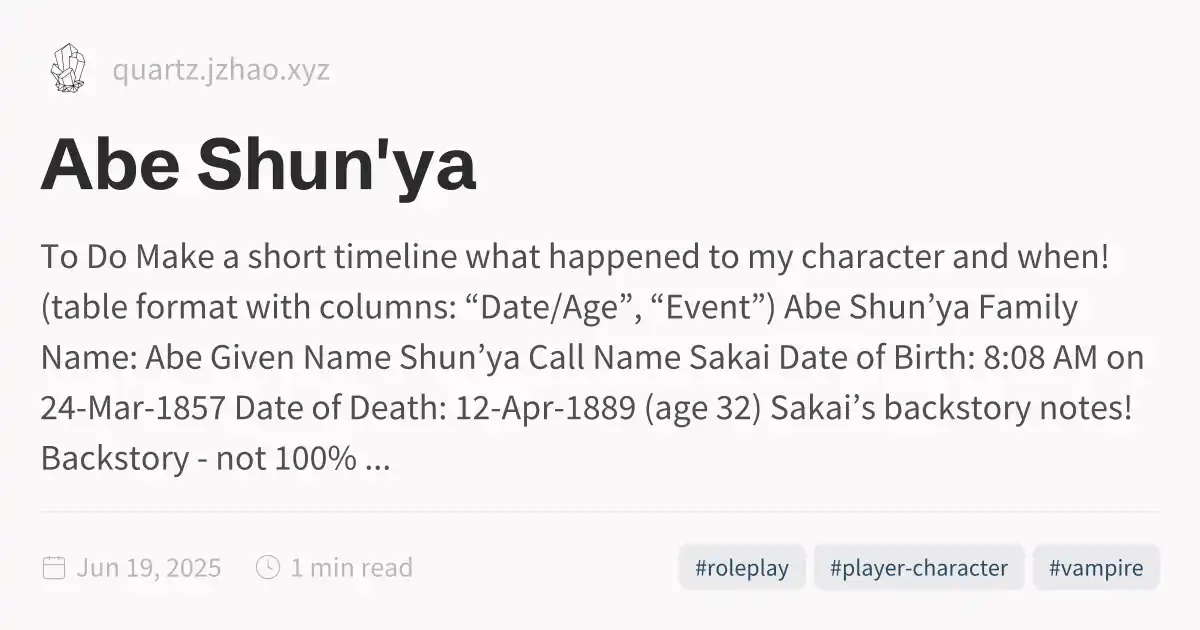
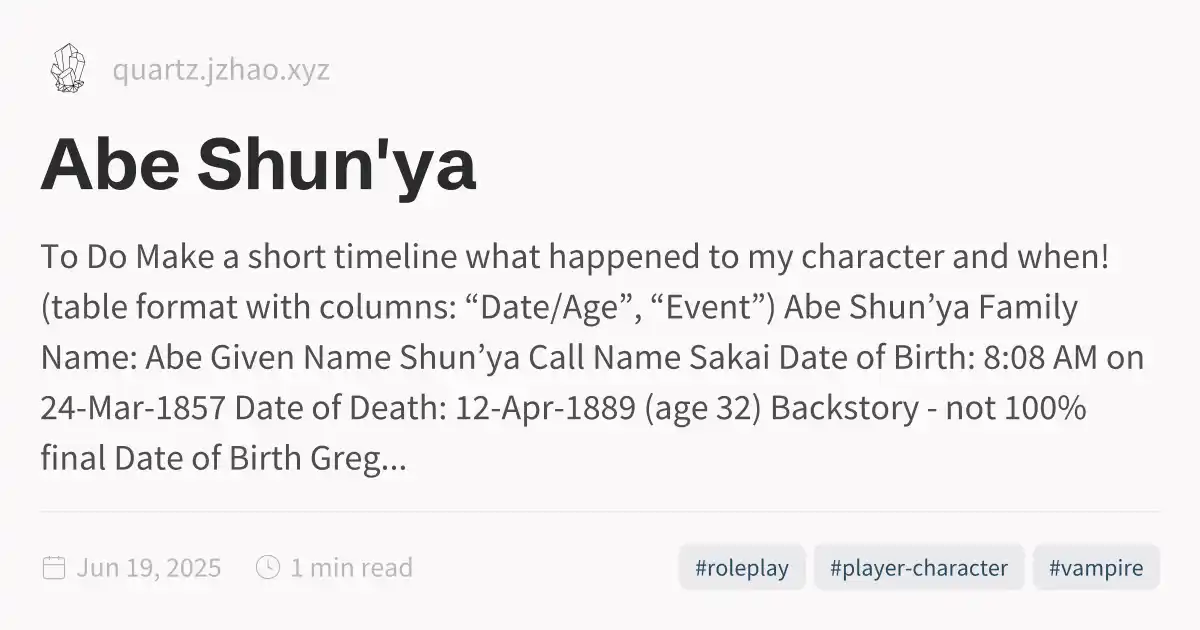
Quartz sync: Jun 20, 2025, 4:30 PM

Changed region(s): [[0.0308, 0.6937, 0.3392, 0.754], [0.6475, 0.6333, 0.9558, 0.6937]]

diff --git a/public/notes/roleplay/characters/Abe-Shun'ya/Sakai's-backstory-notes!Backstory---not-100-percent-final.html b/public/notes/roleplay/characters/Abe-Shun'ya/Sakai's-backstory-notes!Backstory---not-100-percent-final.html
@@ -1,0 +1,131 @@
+<!DOCTYPE html>
+<html lang="en"><head><title>Sakai's backstory notes!Backstory - not 100% final</title><meta charset="utf-8"/><link rel="preconnect" href="https://fonts.googleapis.com"/><link rel="preconnect" href="https://fonts.gstatic.com"/><link rel="stylesheet" href="https://fonts.googleapis.com/css2?family=Schibsted Grotesk:wght@400;700&amp;family=Source Sans Pro:ital,wght@0,400;0,600;1,400;1,600&amp;family=IBM Plex Mono:wght@400;600&amp;display=swap"/><link rel="preconnect" href="https://cdnjs.cloudflare.com" crossorigin="anonymous"/><meta name="viewport" content="width=device-width, initial-scale=1.0"/><meta name="og:site_name" content="Quartz 4"/><meta property="og:title" content="Sakai's backstory notes!Backstory - not 100% final"/><meta property="og:type" content="website"/><meta name="twitter:card" content="summary_large_image"/><meta name="twitter:title" content="Sakai's backstory notes!Backstory - not 100% final"/><meta name="twitter:description" content/><meta property="og:description" content/><meta property="og:image:alt" content/><meta property="twitter:domain" content="quartz.jzhao.xyz"/><meta property="og:url" content="https://quartz.jzhao.xyz/notes/roleplay/characters/Abe-Shun'ya/Sakai's-backstory-notes!Backstory---not-100-percent-final"/><meta property="twitter:url" content="https://quartz.jzhao.xyz/notes/roleplay/characters/Abe-Shun'ya/Sakai's-backstory-notes!Backstory---not-100-percent-final"/><link rel="icon" href="../../../../static/icon.png"/><meta name="description" content/><meta name="generator" content="Quartz"/><link href="../../../../index.css" rel="stylesheet" type="text/css" spa-preserve/><style>.expand-button {
+  position: absolute;
+  display: flex;
+  float: right;
+  padding: 0.4rem;
+  margin: 0.3rem;
+  right: 0;
+  color: var(--gray);
+  border-color: var(--dark);
+  background-color: var(--light);
+  border: 1px solid;
+  border-radius: 5px;
+  opacity: 0;
+  transition: 0.2s;
+}
+.expand-button > svg {
+  fill: var(--light);
+  filter: contrast(0.3);
+}
+.expand-button:hover {
+  cursor: pointer;
+  border-color: var(--secondary);
+}
+.expand-button:focus {
+  outline: 0;
+}
+
+pre:hover > .expand-button {
+  opacity: 1;
+  transition: 0.2s;
+}
+
+#mermaid-container {
+  position: fixed;
+  contain: layout;
+  z-index: 999;
+  left: 0;
+  top: 0;
+  width: 100vw;
+  height: 100vh;
+  overflow: hidden;
+  display: none;
+  backdrop-filter: blur(4px);
+  background: rgba(0, 0, 0, 0.5);
+}
+#mermaid-container.active {
+  display: inline-block;
+}
+#mermaid-container > #mermaid-space {
+  border: 1px solid var(--lightgray);
+  background-color: var(--light);
+  border-radius: 5px;
+  position: fixed;
+  top: 50%;
+  left: 50%;
+  transform: translate(-50%, -50%);
+  height: 80vh;
+  width: 80vw;
+  overflow: hidden;
+}
+#mermaid-container > #mermaid-space > .mermaid-content {
+  padding: 2rem;
+  position: relative;
+  transform-origin: 0 0;
+  transition: transform 0.1s ease;
+  overflow: visible;
+  min-height: 200px;
+  min-width: 200px;
+}
+#mermaid-container > #mermaid-space > .mermaid-content pre {
+  margin: 0;
+  border: none;
+}
+#mermaid-container > #mermaid-space > .mermaid-content svg {
+  max-width: none;
+  height: auto;
+}
+#mermaid-container > #mermaid-space > .mermaid-controls {
+  position: absolute;
+  bottom: 20px;
+  right: 20px;
+  display: flex;
+  gap: 8px;
+  padding: 8px;
+  background: var(--light);
+  border: 1px solid var(--lightgray);
+  border-radius: 6px;
+  box-shadow: 0 2px 4px rgba(0, 0, 0, 0.1);
+  z-index: 2;
+}
+#mermaid-container > #mermaid-space > .mermaid-controls .mermaid-control-button {
+  display: flex;
+  align-items: center;
+  justify-content: center;
+  width: 32px;
+  height: 32px;
+  padding: 0;
+  border: 1px solid var(--lightgray);
+  background: var(--light);
+  color: var(--dark);
+  border-radius: 4px;
+  cursor: pointer;
+  font-size: 16px;
+  font-family: var(--bodyFont);
+  transition: all 0.2s ease;
+}
+#mermaid-container > #mermaid-space > .mermaid-controls .mermaid-control-button:hover {
+  background: var(--lightgray);
+}
+#mermaid-container > #mermaid-space > .mermaid-controls .mermaid-control-button:active {
+  transform: translateY(1px);
+}
+#mermaid-container > #mermaid-space > .mermaid-controls .mermaid-control-button:nth-child(2) {
+  width: auto;
+  padding: 0 12px;
+  font-size: 14px;
+}
[1 lines of base64/hex data omitted]
+                s-3.542,0.634-4.898,1.688l-7.669-7.669C16.785,10.424,17,9.74,17,9c0-2.206-1.794-4-4-4S9,6.794,9,9s1.794,4,4,4
+                c0.74,0,1.424-0.215,2.019-0.567l7.669,7.669C21.634,21.458,21,23.154,21,25s0.634,3.542,1.688,4.897L10.024,42.562
+                C8.958,41.595,7.549,41,6,41c-3.309,0-6,2.691-6,6s2.691,6,6,6s6-2.691,6-6c0-1.035-0.263-2.009-0.726-2.86l12.829-12.829
+                c1.106,0.86,2.44,1.436,3.898,1.619v10.16c-2.833,0.478-5,2.942-5,5.91c0,3.309,2.691,6,6,6s6-2.691,6-6c0-2.967-2.167-5.431-5-5.91
+                v-10.16c1.458-0.183,2.792-0.759,3.898-1.619l7.669,7.669C41.215,39.576,41,40.26,41,41c0,2.206,1.794,4,4,4s4-1.794,4-4
+                s-1.794-4-4-4c-0.74,0-1.424,0.215-2.019,0.567l-7.669-7.669C36.366,28.542,37,26.846,37,25s-0.634-3.542-1.688-4.897l9.665-9.665
+                C46.042,11.405,47.451,12,49,12c3.309,0,6-2.691,6-6S52.309,0,49,0z M11,9c0-1.103,0.897-2,2-2s2,0.897,2,2s-0.897,2-2,2
+                S11,10.103,11,9z M6,51c-2.206,0-4-1.794-4-4s1.794-4,4-4s4,1.794,4,4S8.206,51,6,51z M33,49c0,2.206-1.794,4-4,4s-4-1.794-4-4
+                s1.794-4,4-4S33,46.794,33,49z M29,31c-3.309,0-6-2.691-6-6s2.691-6,6-6s6,2.691,6,6S32.309,31,29,31z M47,41c0,1.103-0.897,2-2,2
+                s-2-0.897-2-2s0.897-2,2-2S47,39.897,47,41z M49,10c-2.206,0-4-1.794-4-4s1.794-4,4-4s4,1.794,4,4S51.206,10,49,10z"></path></svg></button></div><div class="global-graph-outer"><div class="global-graph-container" data-cfg="{&quot;drag&quot;:true,&quot;zoom&quot;:true,&quot;depth&quot;:-1,&quot;scale&quot;:0.9,&quot;repelForce&quot;:0.5,&quot;centerForce&quot;:0.2,&quot;linkDistance&quot;:30,&quot;fontSize&quot;:0.6,&quot;opacityScale&quot;:1,&quot;showTags&quot;:true,&quot;removeTags&quot;:[],&quot;focusOnHover&quot;:true,&quot;enableRadial&quot;:true}"></div></div></div></div><footer class><p>Created with <a href="https://quartz.jzhao.xyz/">Quartz v4.5.1</a> © 2025</p><ul><li><a href="https://github.com/jackyzha0/quartz">GitHub</a></li><li><a href="https://discord.gg/cRFFHYye7t">Discord Community</a></li></ul></footer></div></div></body><script type="application/javascript">function n(){let t=this.parentElement;t.classList.toggle("is-collapsed");let e=t.getElementsByClassName("callout-content")[0];if(!e)return;let l=t.classList.contains("is-collapsed");e.style.gridTemplateRows=l?"0fr":"1fr"}function c(){let t=document.getElementsByClassName("callout is-collapsible");for(let e of t){let l=e.getElementsByClassName("callout-title")[0],s=e.getElementsByClassName("callout-content")[0];if(!l||!s)continue;l.addEventListener("click",n),window.addCleanup(()=>l.removeEventListener("click",n));let o=e.classList.contains("is-collapsed");s.style.gridTemplateRows=o?"0fr":"1fr"}}document.addEventListener("nav",c);
+</script><script type="module">function f(i,e){if(!i)return;function r(o){o.target===this&&(o.preventDefault(),o.stopPropagation(),e())}function t(o){o.key.startsWith("Esc")&&(o.preventDefault(),e())}i?.addEventListener("click",r),window.addCleanup(()=>i?.removeEventListener("click",r)),document.addEventListener("keydown",t),window.addCleanup(()=>document.removeEventListener("keydown",t))}function y(i){for(;i.firstChild;)i.removeChild(i.firstChild)}var h=class{constructor(e,r){this.container=e;this.content=r;this.setupEventListeners(),this.setupNavigationControls(),this.resetTransform()}isDragging=!1;startPan={x:0,y:0};currentPan={x:0,y:0};scale=1;MIN_SCALE=.5;MAX_SCALE=3;cleanups=[];setupEventListeners(){let e=this.onMouseDown.bind(this),r=this.onMouseMove.bind(this),t=this.onMouseUp.bind(this),o=this.resetTransform.bind(this);this.container.addEventListener("mousedown",e),document.addEventListener("mousemove",r),document.addEventListener("mouseup",t),window.addEventListener("resize",o),this.cleanups.push(()=>this.container.removeEventListener("mousedown",e),()=>document.removeEventListener("mousemove",r),()=>document.removeEventListener("mouseup",t),()=>window.removeEventListener("resize",o))}cleanup(){for(let e of this.cleanups)e()}setupNavigationControls(){let e=document.createElement("div");e.className="mermaid-controls";let r=this.createButton("+",()=>this.zoom(.1)),t=this.createButton("-",()=>this.zoom(-.1)),o=this.createButton("Reset",()=>this.resetTransform());e.appendChild(t),e.appendChild(o),e.appendChild(r),this.container.appendChild(e)}createButton(e,r){let t=document.createElement("button");return t.textContent=e,t.className="mermaid-control-button",t.addEventListener("click",r),window.addCleanup(()=>t.removeEventListener("click",r)),t}onMouseDown(e){e.button===0&&(this.isDragging=!0,this.startPan={x:e.clientX-this.currentPan.x,y:e.clientY-this.currentPan.y},this.container.style.cursor="grabbing")}onMouseMove(e){this.isDragging&&(e.preventDefault(),this.currentPan={x:e.clientX-this.startPan.x,y:e.clientY-this.startPan.y},this.updateTransform())}onMouseUp(){this.isDragging=!1,this.container.style.cursor="grab"}zoom(e){let r=Math.min(Math.max(this.scale+e,this.MIN_SCALE),this.MAX_SCALE),t=this.content.getBoundingClientRect(),o=t.width/2,n=t.height/2,c=r-this.scale;this.currentPan.x-=o*c,this.currentPan.y-=n*c,this.scale=r,this.updateTransform()}updateTransform(){this.content.style.transform=`translate(${this.currentPan.x}px, ${this.currentPan.y}px) scale(${this.scale})`}resetTransform(){this.scale=1;let e=this.content.querySelector("svg");this.currentPan={x:e.getBoundingClientRect().width/2,y:e.getBoundingClientRect().height/2},this.updateTransform()}},C=["--secondary","--tertiary","--gray","--light","--lightgray","--highlight","--dark","--darkgray","--codeFont"],E;document.addEventListener("nav",async()=>{let e=document.querySelector(".center").querySelectorAll("code.mermaid");if(e.length===0)return;E||=await import("https://cdnjs.cloudflare.com/ajax/libs/mermaid/11.4.0/mermaid.esm.min.mjs");let r=E.default,t=new WeakMap;for(let n of e)t.set(n,n.innerText);async function o(){for(let s of e){s.removeAttribute("data-processed");let a=t.get(s);a&&(s.innerHTML=a)}let n=C.reduce((s,a)=>(s[a]=window.getComputedStyle(document.documentElement).getPropertyValue(a),s),{}),c=document.documentElement.getAttribute("saved-theme")==="dark";r.initialize({startOnLoad:!1,securityLevel:"loose",theme:c?"dark":"base",themeVariables:{fontFamily:n["--codeFont"],primaryColor:n["--light"],primaryTextColor:n["--darkgray"],primaryBorderColor:n["--tertiary"],lineColor:n["--darkgray"],secondaryColor:n["--secondary"],tertiaryColor:n["--tertiary"],clusterBkg:n["--light"],edgeLabelBackground:n["--highlight"]}}),await r.run({nodes:e})}await o(),document.addEventListener("themechange",o),window.addCleanup(()=>document.removeEventListener("themechange",o));for(let n=0;n<e.length;n++){let v=function(){let g=l.querySelector("#mermaid-space"),m=l.querySelector(".mermaid-content");if(!m)return;y(m);let w=c.querySelector("svg").cloneNode(!0);m.appendChild(w),l.classList.add("active"),g.style.cursor="grab",u=new h(g,m)},M=function(){l.classList.remove("active"),u?.cleanup(),u=null},c=e[n],s=c.parentElement,a=s.querySelector(".clipboard-button"),d=s.querySelector(".expand-button"),p=window.getComputedStyle(a),L=a.offsetWidth+parseFloat(p.marginLeft||"0")+parseFloat(p.marginRight||"0");d.style.right=`calc(${L}px + 0.3rem)`,s.prepend(d);let l=s.querySelector("#mermaid-container");if(!l)return;let u=null;d.addEventListener("click",v),f(l,M),window.addCleanup(()=>{u?.cleanup(),d.removeEventListener("click",v)})}});
+</script><script src="https://cdn.jsdelivr.net/npm/katex@0.16.11/dist/contrib/copy-tex.min.js" type="application/javascript"></script><script src="../../../../postscript.js" type="module"></script></html>

diff --git a/public/notes/roleplay/characters/Abe-Shun'ya/Abe-Shun'ya.html b/public/notes/roleplay/characters/Abe-Shun'ya/Abe-Shun'ya.html
@@ -1,5 +1,5 @@
 <!DOCTYPE html>
-<html lang="en"><head><title>Abe Shun'ya</title><meta charset="utf-8"/><link rel="preconnect" href="https://fonts.googleapis.com"/><link rel="preconnect" href="https://fonts.gstatic.com"/><link rel="stylesheet" href="https://fonts.googleapis.com/css2?family=Schibsted Grotesk:wght@400;700&amp;family=Source Sans Pro:ital,wght@0,400;0,600;1,400;1,600&amp;family=IBM Plex Mono:wght@400;600&amp;display=swap"/><link rel="preconnect" href="https://cdnjs.cloudflare.com" crossorigin="anonymous"/><meta name="viewport" content="width=device-width, initial-scale=1.0"/><meta name="og:site_name" content="Quartz 4"/><meta property="og:title" content="Abe Shun'ya"/><meta property="og:type" content="website"/><meta name="twitter:card" content="summary_large_image"/><meta name="twitter:title" content="Abe Shun'ya"/><meta name="twitter:description" content="To Do Make a short timeline what happened to my character and when! (table format with columns: “Date/Age”, “Event”) Abe Shun’ya Family Name: Abe Given Name Shun’ya Call Name Sakai Date of Birth: 8:08 AM on 24-Mar-1857 Date of Death: 12-Apr-1889 (age 32) Sakai’s backstory notes!Backstory - not 100% ..."/><meta property="og:description" content="To Do Make a short timeline what happened to my character and when! (table format with columns: “Date/Age”, “Event”) Abe Shun’ya Family Name: Abe Given Name Shun’ya Call Name Sakai Date of Birth: 8:08 AM on 24-Mar-1857 Date of Death: 12-Apr-1889 (age 32) Sakai’s backstory notes!Backstory - not 100% ..."/><meta property="og:image:alt" content="To Do Make a short timeline what happened to my character and when! (table format with columns: “Date/Age”, “Event”) Abe Shun’ya Family Name: Abe Given Name Shun’ya Call Name Sakai Date of Birth: 8:08 AM on 24-Mar-1857 Date of Death: 12-Apr-1889 (age 32) Sakai’s backstory notes!Backstory - not 100% ..."/><meta property="twitter:domain" content="quartz.jzhao.xyz"/><meta property="og:url" content="https://quartz.jzhao.xyz/notes/roleplay/characters/Abe-Shun'ya/Abe-Shun'ya"/><meta property="twitter:url" content="https://quartz.jzhao.xyz/notes/roleplay/characters/Abe-Shun'ya/Abe-Shun'ya"/><link rel="icon" href="../../../../static/icon.png"/><meta name="description" content="To Do Make a short timeline what happened to my character and when! (table format with columns: “Date/Age”, “Event”) Abe Shun’ya Family Name: Abe Given Name Shun’ya Call Name Sakai Date of Birth: 8:08 AM on 24-Mar-1857 Date of Death: 12-Apr-1889 (age 32) Sakai’s backstory notes!Backstory - not 100% ..."/><meta name="generator" content="Quartz"/><link href="../../../../index.css" rel="stylesheet" type="text/css" spa-preserve/><style>.expand-button {
+<html lang="en"><head><title>Abe Shun'ya</title><meta charset="utf-8"/><link rel="preconnect" href="https://fonts.googleapis.com"/><link rel="preconnect" href="https://fonts.gstatic.com"/><link rel="stylesheet" href="https://fonts.googleapis.com/css2?family=Schibsted Grotesk:wght@400;700&amp;family=Source Sans Pro:ital,wght@0,400;0,600;1,400;1,600&amp;family=IBM Plex Mono:wght@400;600&amp;display=swap"/><link rel="preconnect" href="https://cdnjs.cloudflare.com" crossorigin="anonymous"/><meta name="viewport" content="width=device-width, initial-scale=1.0"/><meta name="og:site_name" content="Quartz 4"/><meta property="og:title" content="Abe Shun'ya"/><meta property="og:type" content="website"/><meta name="twitter:card" content="summary_large_image"/><meta name="twitter:title" content="Abe Shun'ya"/><meta name="twitter:description" content="To Do Make a short timeline what happened to my character and when! (table format with columns: “Date/Age”, “Event”) Abe Shun’ya Family Name: Abe Given Name Shun’ya Call Name Sakai Date of Birth: 8:08 AM on 24-Mar-1857 Date of Death: 12-Apr-1889 (age 32) Backstory - not 100% final Date of Birth Greg..."/><meta property="og:description" content="To Do Make a short timeline what happened to my character and when! (table format with columns: “Date/Age”, “Event”) Abe Shun’ya Family Name: Abe Given Name Shun’ya Call Name Sakai Date of Birth: 8:08 AM on 24-Mar-1857 Date of Death: 12-Apr-1889 (age 32) Backstory - not 100% final Date of Birth Greg..."/><meta property="og:image:alt" content="To Do Make a short timeline what happened to my character and when! (table format with columns: “Date/Age”, “Event”) Abe Shun’ya Family Name: Abe Given Name Shun’ya Call Name Sakai Date of Birth: 8:08 AM on 24-Mar-1857 Date of Death: 12-Apr-1889 (age 32) Backstory - not 100% final Date of Birth Greg..."/><meta property="twitter:domain" content="quartz.jzhao.xyz"/><meta property="og:url" content="https://quartz.jzhao.xyz/notes/roleplay/characters/Abe-Shun'ya/Abe-Shun'ya"/><meta property="twitter:url" content="https://quartz.jzhao.xyz/notes/roleplay/characters/Abe-Shun'ya/Abe-Shun'ya"/><link rel="icon" href="../../../../static/icon.png"/><meta name="description" content="To Do Make a short timeline what happened to my character and when! (table format with columns: “Date/Age”, “Event”) Abe Shun’ya Family Name: Abe Given Name Shun’ya Call Name Sakai Date of Birth: 8:08 AM on 24-Mar-1857 Date of Death: 12-Apr-1889 (age 32) Backstory - not 100% final Date of Birth Greg..."/><meta name="generator" content="Quartz"/><link href="../../../../index.css" rel="stylesheet" type="text/css" spa-preserve/><style>.expand-button {
   position: absolute;
   display: flex;
   float: right;
@@ -139,7 +139,7 @@ pre:hover > .expand-button {
 <p><strong>Date of Death</strong>: 12-Apr-1889 (age 32)</p>
 </li>
 </ul>
-<p><a href="../../../../Sakai's-backstory-notes!Backstory---not-100-percent-final" class="internal alias" data-slug="Sakai's-backstory-notes!Backstory---not-100-percent-final">Sakai’s backstory notes!Backstory - not 100% final</a></p>
+<p><a href="../../../../notes/roleplay/characters/Abe-Shun'ya/Sakai's-backstory-notes" class="internal alias" data-slug="notes/roleplay/characters/Abe-Shun'ya/Sakai's-backstory-notes">Backstory - not 100% final</a></p>
 <h2 id="date-of-birth">Date of Birth<a role="anchor" aria-hidden="true" tabindex="-1" data-no-popover="true" href="#date-of-birth" class="internal"><svg width="18" height="18" viewBox="0 0 24 24" fill="none" stroke="currentColor" stroke-width="2" stroke-linecap="round" stroke-linejoin="round"><path d="M10 13a5 5 0 0 0 7.54.54l3-3a5 5 0 0 0-7.07-7.07l-1.72 1.71"></path><path d="M14 11a5 5 0 0 0-7.54-.54l-3 3a5 5 0 0 0 7.07 7.07l1.71-1.71"></path></svg></a></h2>
 <h3 id="gregorian-calendar">Gregorian Calendar<a role="anchor" aria-hidden="true" tabindex="-1" data-no-popover="true" href="#gregorian-calendar" class="internal"><svg width="18" height="18" viewBox="0 0 24 24" fill="none" stroke="currentColor" stroke-width="2" stroke-linecap="round" stroke-linejoin="round"><path d="M10 13a5 5 0 0 0 7.54.54l3-3a5 5 0 0 0-7.07-7.07l-1.72 1.71"></path><path d="M14 11a5 5 0 0 0-7.54-.54l-3 3a5 5 0 0 0 7.07 7.07l1.71-1.71"></path></svg></a></h3>
 <ul>

diff --git a/public/index.html b/public/index.html
@@ -116,7 +116,7 @@ pre:hover > .expand-button {
   padding: 0 12px;
   font-size: 14px;
 }
[2 lines of base64/hex data omitted]
                 s-3.542,0.634-4.898,1.688l-7.669-7.669C16.785,10.424,17,9.74,17,9c0-2.206-1.794-4-4-4S9,6.794,9,9s1.794,4,4,4
                 c0.74,0,1.424-0.215,2.019-0.567l7.669,7.669C21.634,21.458,21,23.154,21,25s0.634,3.542,1.688,4.897L10.024,42.562
                 C8.958,41.595,7.549,41,6,41c-3.309,0-6,2.691-6,6s2.691,6,6,6s6-2.691,6-6c0-1.035-0.263-2.009-0.726-2.86l12.829-12.829

diff --git a/public/notes/index.html b/public/notes/index.html
@@ -116,6 +116,6 @@ pre:hover > .expand-button {
   padding: 0 12px;
   font-size: 14px;
 }
[2 lines of base64/hex data omitted]
 </script><script type="module">function f(i,e){if(!i)return;function r(o){o.target===this&&(o.preventDefault(),o.stopPropagation(),e())}function t(o){o.key.startsWith("Esc")&&(o.preventDefault(),e())}i?.addEventListener("click",r),window.addCleanup(()=>i?.removeEventListener("click",r)),document.addEventListener("keydown",t),window.addCleanup(()=>document.removeEventListener("keydown",t))}function y(i){for(;i.firstChild;)i.removeChild(i.firstChild)}var h=class{constructor(e,r){this.container=e;this.content=r;this.setupEventListeners(),this.setupNavigationControls(),this.resetTransform()}isDragging=!1;startPan={x:0,y:0};currentPan={x:0,y:0};scale=1;MIN_SCALE=.5;MAX_SCALE=3;cleanups=[];setupEventListeners(){let e=this.onMouseDown.bind(this),r=this.onMouseMove.bind(this),t=this.onMouseUp.bind(this),o=this.resetTransform.bind(this);this.container.addEventListener("mousedown",e),document.addEventListener("mousemove",r),document.addEventListener("mouseup",t),window.addEventListener("resize",o),this.cleanups.push(()=>this.container.removeEventListener("mousedown",e),()=>document.removeEventListener("mousemove",r),()=>document.removeEventListener("mouseup",t),()=>window.removeEventListener("resize",o))}cleanup(){for(let e of this.cleanups)e()}setupNavigationControls(){let e=document.createElement("div");e.className="mermaid-controls";let r=this.createButton("+",()=>this.zoom(.1)),t=this.createButton("-",()=>this.zoom(-.1)),o=this.createButton("Reset",()=>this.resetTransform());e.appendChild(t),e.appendChild(o),e.appendChild(r),this.container.appendChild(e)}createButton(e,r){let t=document.createElement("button");return t.textContent=e,t.className="mermaid-control-button",t.addEventListener("click",r),window.addCleanup(()=>t.removeEventListener("click",r)),t}onMouseDown(e){e.button===0&&(this.isDragging=!0,this.startPan={x:e.clientX-this.currentPan.x,y:e.clientY-this.currentPan.y},this.container.style.cursor="grabbing")}onMouseMove(e){this.isDragging&&(e.preventDefault(),this.currentPan={x:e.clientX-this.startPan.x,y:e.clientY-this.startPan.y},this.updateTransform())}onMouseUp(){this.isDragging=!1,this.container.style.cursor="grab"}zoom(e){let r=Math.min(Math.max(this.scale+e,this.MIN_SCALE),this.MAX_SCALE),t=this.content.getBoundingClientRect(),o=t.width/2,n=t.height/2,c=r-this.scale;this.currentPan.x-=o*c,this.currentPan.y-=n*c,this.scale=r,this.updateTransform()}updateTransform(){this.content.style.transform=`translate(${this.currentPan.x}px, ${this.currentPan.y}px) scale(${this.scale})`}resetTransform(){this.scale=1;let e=this.content.querySelector("svg");this.currentPan={x:e.getBoundingClientRect().width/2,y:e.getBoundingClientRect().height/2},this.updateTransform()}},C=["--secondary","--tertiary","--gray","--light","--lightgray","--highlight","--dark","--darkgray","--codeFont"],E;document.addEventListener("nav",async()=>{let e=document.querySelector(".center").querySelectorAll("code.mermaid");if(e.length===0)return;E||=await import("https://cdnjs.cloudflare.com/ajax/libs/mermaid/11.4.0/mermaid.esm.min.mjs");let r=E.default,t=new WeakMap;for(let n of e)t.set(n,n.innerText);async function o(){for(let s of e){s.removeAttribute("data-processed");let a=t.get(s);a&&(s.innerHTML=a)}let n=C.reduce((s,a)=>(s[a]=window.getComputedStyle(document.documentElement).getPropertyValue(a),s),{}),c=document.documentElement.getAttribute("saved-theme")==="dark";r.initialize({startOnLoad:!1,securityLevel:"loose",theme:c?"dark":"base",themeVariables:{fontFamily:n["--codeFont"],primaryColor:n["--light"],primaryTextColor:n["--darkgray"],primaryBorderColor:n["--tertiary"],lineColor:n["--darkgray"],secondaryColor:n["--secondary"],tertiaryColor:n["--tertiary"],clusterBkg:n["--light"],edgeLabelBackground:n["--highlight"]}}),await r.run({nodes:e})}await o(),document.addEventListener("themechange",o),window.addCleanup(()=>document.removeEventListener("themechange",o));for(let n=0;n<e.length;n++){let v=function(){let g=l.querySelector("#mermaid-space"),m=l.querySelector(".mermaid-content");if(!m)return;y(m);let w=c.querySelector("svg").cloneNode(!0);m.appendChild(w),l.classList.add("active"),g.style.cursor="grab",u=new h(g,m)},M=function(){l.classList.remove("active"),u?.cleanup(),u=null},c=e[n],s=c.parentElement,a=s.querySelector(".clipboard-button"),d=s.querySelector(".expand-button"),p=window.getComputedStyle(a),L=a.offsetWidth+parseFloat(p.marginLeft||"0")+parseFloat(p.marginRight||"0");d.style.right=`calc(${L}px + 0.3rem)`,s.prepend(d);let l=s.querySelector("#mermaid-container");if(!l)return;let u=null;d.addEventListener("click",v),f(l,M),window.addCleanup(()=>{u?.cleanup(),d.removeEventListener("click",v)})}});
 </script><script src="https://cdn.jsdelivr.net/npm/katex@0.16.11/dist/contrib/copy-tex.min.js" type="application/javascript"></script><script src="../postscript.js" type="module"></script></html>

diff --git a/public/notes/roleplay/characters/Abe-Shun'ya/New-vampire-character---creation-nottes.html b/public/notes/roleplay/characters/Abe-Shun'ya/New-vampire-character---creation-nottes.html
@@ -116,7 +116,7 @@ pre:hover > .expand-button {
   padding: 0 12px;
   font-size: 14px;
 }
[2 lines of base64/hex data omitted]
 <blockquote>
 <p>Information on this page is subject to change, As long as the information is not yet mentioned in the [INSERT CHARACTER NAME] document, it is not yet part of the character’s design.</p>
 </blockquote>

diff --git a/public/notes/roleplay/characters/Abe-Shun'ya/Sakai's-Japanese-Astrology---Death.html b/public/notes/roleplay/characters/Abe-Shun'ya/Sakai's-Japanese-Astrology---Death.html
@@ -116,7 +116,7 @@ pre:hover > .expand-button {
   padding: 0 12px;
   font-size: 14px;
 }
[2 lines of base64/hex data omitted]
 <p><strong>Date of Transformation:</strong> Meiji 22, 3rd Month, 12th Day<br/>
 <strong>Gregorian Date:</strong> April 14, 1889<br/>
 <strong>Sexagenary Pillar:</strong> 庚辰 (Kanoe-Tatsu)<br/>

diff --git a/public/notes/roleplay/characters/Abe-Shun'ya/Sakai's-backstory-notes.html b/public/notes/roleplay/characters/Abe-Shun'ya/Sakai's-backstory-notes.html
@@ -133,6 +133,6 @@ pre:hover > .expand-button {
                 C46.042,11.405,47.451,12,49,12c3.309,0,6-2.691,6-6S52.309,0,49,0z M11,9c0-1.103,0.897-2,2-2s2,0.897,2,2s-0.897,2-2,2
                 S11,10.103,11,9z M6,51c-2.206,0-4-1.794-4-4s1.794-4,4-4s4,1.794,4,4S8.206,51,6,51z M33,49c0,2.206-1.794,4-4,4s-4-1.794-4-4
                 s1.794-4,4-4S33,46.794,33,49z M29,31c-3.309,0-6-2.691-6-6s2.691-6,6-6s6,2.691,6,6S32.309,31,29,31z M47,41c0,1.103-0.897,2-2,2
-                s-2-0.897-2-2s0.897-2,2-2S47,39.897,47,41z M49,10c-2.206,0-4-1.794-4-4s1.794-4,4-4s4,1.794,4,4S51.206,10,49,10z"></path></svg></button></div><div class="global-graph-outer"><div class="global-graph-container" data-cfg="{&quot;drag&quot;:true,&quot;zoom&quot;:true,&quot;depth&quot;:-1,&quot;scale&quot;:0.9,&quot;repelForce&quot;:0.5,&quot;centerForce&quot;:0.2,&quot;linkDistance&quot;:30,&quot;fontSize&quot;:0.6,&quot;opacityScale&quot;:1,&quot;showTags&quot;:true,&quot;removeTags&quot;:[],&quot;focusOnHover&quot;:true,&quot;enableRadial&quot;:true}"></div></div></div></div><footer class><p>Created with <a href="https://quartz.jzhao.xyz/">Quartz v4.5.1</a> © 2025</p><ul><li><a href="https://github.com/jackyzha0/quartz">GitHub</a></li><li><a href="https://discord.gg/cRFFHYye7t">Discord Community</a></li></ul></footer></div></div></body><script type="application/javascript">function n(){let t=this.parentElement;t.classList.toggle("is-collapsed");let e=t.getElementsByClassName("callout-content")[0];if(!e)return;let l=t.classList.contains("is-collapsed");e.style.gridTemplateRows=l?"0fr":"1fr"}function c(){let t=document.getElementsByClassName("callout is-collapsible");for(let e of t){let l=e.getElementsByClassName("callout-title")[0],s=e.getElementsByClassName("callout-content")[0];if(!l||!s)continue;l.addEventListener("click",n),window.addCleanup(()=>l.removeEventListener("click",n));let o=e.classList.contains("is-collapsed");s.style.gridTemplateRows=o?"0fr":"1fr"}}document.addEventListener("nav",c);
+                s-2-0.897-2-2s0.897-2,2-2S47,39.897,47,41z M49,10c-2.206,0-4-1.794-4-4s1.794-4,4-4s4,1.794,4,4S51.206,10,49,10z"></path></svg></button></div><div class="global-graph-outer"><div class="global-graph-container" data-cfg="{&quot;drag&quot;:true,&quot;zoom&quot;:true,&quot;depth&quot;:-1,&quot;scale&quot;:0.9,&quot;repelForce&quot;:0.5,&quot;centerForce&quot;:0.2,&quot;linkDistance&quot;:30,&quot;fontSize&quot;:0.6,&quot;opacityScale&quot;:1,&quot;showTags&quot;:true,&quot;removeTags&quot;:[],&quot;focusOnHover&quot;:true,&quot;enableRadial&quot;:true}"></div></div></div><div class="backlinks"><h3>Backlinks</h3><ul id="list-2" class="overflow"><li><a href="../../../../notes/roleplay/characters/Abe-Shun'ya/Abe-Shun'ya" class="internal">Abe Shun'ya</a></li><li class="overflow-end"></li></ul></div></div><footer class><p>Created with <a href="https://quartz.jzhao.xyz/">Quartz v4.5.1</a> © 2025</p><ul><li><a href="https://github.com/jackyzha0/quartz">GitHub</a></li><li><a href="https://discord.gg/cRFFHYye7t">Discord Community</a></li></ul></footer></div></div></body><script type="application/javascript">function n(){let t=this.parentElement;t.classList.toggle("is-collapsed");let e=t.getElementsByClassName("callout-content")[0];if(!e)return;let l=t.classList.contains("is-collapsed");e.style.gridTemplateRows=l?"0fr":"1fr"}function c(){let t=document.getElementsByClassName("callout is-collapsible");for(let e of t){let l=e.getElementsByClassName("callout-title")[0],s=e.getElementsByClassName("callout-content")[0];if(!l||!s)continue;l.addEventListener("click",n),window.addCleanup(()=>l.removeEventListener("click",n));let o=e.classList.contains("is-collapsed");s.style.gridTemplateRows=o?"0fr":"1fr"}}document.addEventListener("nav",c);
 </script><script type="module">function f(i,e){if(!i)return;function r(o){o.target===this&&(o.preventDefault(),o.stopPropagation(),e())}function t(o){o.key.startsWith("Esc")&&(o.preventDefault(),e())}i?.addEventListener("click",r),window.addCleanup(()=>i?.removeEventListener("click",r)),document.addEventListener("keydown",t),window.addCleanup(()=>document.removeEventListener("keydown",t))}function y(i){for(;i.firstChild;)i.removeChild(i.firstChild)}var h=class{constructor(e,r){this.container=e;this.content=r;this.setupEventListeners(),this.setupNavigationControls(),this.resetTransform()}isDragging=!1;startPan={x:0,y:0};currentPan={x:0,y:0};scale=1;MIN_SCALE=.5;MAX_SCALE=3;cleanups=[];setupEventListeners(){let e=this.onMouseDown.bind(this),r=this.onMouseMove.bind(this),t=this.onMouseUp.bind(this),o=this.resetTransform.bind(this);this.container.addEventListener("mousedown",e),document.addEventListener("mousemove",r),document.addEventListener("mouseup",t),window.addEventListener("resize",o),this.cleanups.push(()=>this.container.removeEventListener("mousedown",e),()=>document.removeEventListener("mousemove",r),()=>document.removeEventListener("mouseup",t),()=>window.removeEventListener("resize",o))}cleanup(){for(let e of this.cleanups)e()}setupNavigationControls(){let e=document.createElement("div");e.className="mermaid-controls";let r=this.createButton("+",()=>this.zoom(.1)),t=this.createButton("-",()=>this.zoom(-.1)),o=this.createButton("Reset",()=>this.resetTransform());e.appendChild(t),e.appendChild(o),e.appendChild(r),this.container.appendChild(e)}createButton(e,r){let t=document.createElement("button");return t.textContent=e,t.className="mermaid-control-button",t.addEventListener("click",r),window.addCleanup(()=>t.removeEventListener("click",r)),t}onMouseDown(e){e.button===0&&(this.isDragging=!0,this.startPan={x:e.clientX-this.currentPan.x,y:e.clientY-this.currentPan.y},this.container.style.cursor="grabbing")}onMouseMove(e){this.isDragging&&(e.preventDefault(),this.currentPan={x:e.clientX-this.startPan.x,y:e.clientY-this.startPan.y},this.updateTransform())}onMouseUp(){this.isDragging=!1,this.container.style.cursor="grab"}zoom(e){let r=Math.min(Math.max(this.scale+e,this.MIN_SCALE),this.MAX_SCALE),t=this.content.getBoundingClientRect(),o=t.width/2,n=t.height/2,c=r-this.scale;this.currentPan.x-=o*c,this.currentPan.y-=n*c,this.scale=r,this.updateTransform()}updateTransform(){this.content.style.transform=`translate(${this.currentPan.x}px, ${this.currentPan.y}px) scale(${this.scale})`}resetTransform(){this.scale=1;let e=this.content.querySelector("svg");this.currentPan={x:e.getBoundingClientRect().width/2,y:e.getBoundingClientRect().height/2},this.updateTransform()}},C=["--secondary","--tertiary","--gray","--light","--lightgray","--highlight","--dark","--darkgray","--codeFont"],E;document.addEventListener("nav",async()=>{let e=document.querySelector(".center").querySelectorAll("code.mermaid");if(e.length===0)return;E||=await import("https://cdnjs.cloudflare.com/ajax/libs/mermaid/11.4.0/mermaid.esm.min.mjs");let r=E.default,t=new WeakMap;for(let n of e)t.set(n,n.innerText);async function o(){for(let s of e){s.removeAttribute("data-processed");let a=t.get(s);a&&(s.innerHTML=a)}let n=C.reduce((s,a)=>(s[a]=window.getComputedStyle(document.documentElement).getPropertyValue(a),s),{}),c=document.documentElement.getAttribute("saved-theme")==="dark";r.initialize({startOnLoad:!1,securityLevel:"loose",theme:c?"dark":"base",themeVariables:{fontFamily:n["--codeFont"],primaryColor:n["--light"],primaryTextColor:n["--darkgray"],primaryBorderColor:n["--tertiary"],lineColor:n["--darkgray"],secondaryColor:n["--secondary"],tertiaryColor:n["--tertiary"],clusterBkg:n["--light"],edgeLabelBackground:n["--highlight"]}}),await r.run({nodes:e})}await o(),document.addEventListener("themechange",o),window.addCleanup(()=>document.removeEventListener("themechange",o));for(let n=0;n<e.length;n++){let v=function(){let g=l.querySelector("#mermaid-space"),m=l.querySelector(".mermaid-content");if(!m)return;y(m);let w=c.querySelector("svg").cloneNode(!0);m.appendChild(w),l.classList.add("active"),g.style.cursor="grab",u=new h(g,m)},M=function(){l.classList.remove("active"),u?.cleanup(),u=null},c=e[n],s=c.parentElement,a=s.querySelector(".clipboard-button"),d=s.querySelector(".expand-button"),p=window.getComputedStyle(a),L=a.offsetWidth+parseFloat(p.marginLeft||"0")+parseFloat(p.marginRight||"0");d.style.right=`calc(${L}px + 0.3rem)`,s.prepend(d);let l=s.querySelector("#mermaid-container");if(!l)return;let u=null;d.addEventListener("click",v),f(l,M),window.addCleanup(()=>{u?.cleanup(),d.removeEventListener("click",v)})}});
 </script><script src="https://cdn.jsdelivr.net/npm/katex@0.16.11/dist/contrib/copy-tex.min.js" type="application/javascript"></script><script src="../../../../postscript.js" type="module"></script></html>

diff --git a/public/notes/roleplay/characters/Abe-Shun'ya/index.html b/public/notes/roleplay/characters/Abe-Shun'ya/index.html
@@ -116,6 +116,6 @@ pre:hover > .expand-button {
   padding: 0 12px;
   font-size: 14px;
 }
[2 lines of base64/hex data omitted]
 </script><script type="module">function f(i,e){if(!i)return;function r(o){o.target===this&&(o.preventDefault(),o.stopPropagation(),e())}function t(o){o.key.startsWith("Esc")&&(o.preventDefault(),e())}i?.addEventListener("click",r),window.addCleanup(()=>i?.removeEventListener("click",r)),document.addEventListener("keydown",t),window.addCleanup(()=>document.removeEventListener("keydown",t))}function y(i){for(;i.firstChild;)i.removeChild(i.firstChild)}var h=class{constructor(e,r){this.container=e;this.content=r;this.setupEventListeners(),this.setupNavigationControls(),this.resetTransform()}isDragging=!1;startPan={x:0,y:0};currentPan={x:0,y:0};scale=1;MIN_SCALE=.5;MAX_SCALE=3;cleanups=[];setupEventListeners(){let e=this.onMouseDown.bind(this),r=this.onMouseMove.bind(this),t=this.onMouseUp.bind(this),o=this.resetTransform.bind(this);this.container.addEventListener("mousedown",e),document.addEventListener("mousemove",r),document.addEventListener("mouseup",t),window.addEventListener("resize",o),this.cleanups.push(()=>this.container.removeEventListener("mousedown",e),()=>document.removeEventListener("mousemove",r),()=>document.removeEventListener("mouseup",t),()=>window.removeEventListener("resize",o))}cleanup(){for(let e of this.cleanups)e()}setupNavigationControls(){let e=document.createElement("div");e.className="mermaid-controls";let r=this.createButton("+",()=>this.zoom(.1)),t=this.createButton("-",()=>this.zoom(-.1)),o=this.createButton("Reset",()=>this.resetTransform());e.appendChild(t),e.appendChild(o),e.appendChild(r),this.container.appendChild(e)}createButton(e,r){let t=document.createElement("button");return t.textContent=e,t.className="mermaid-control-button",t.addEventListener("click",r),window.addCleanup(()=>t.removeEventListener("click",r)),t}onMouseDown(e){e.button===0&&(this.isDragging=!0,this.startPan={x:e.clientX-this.currentPan.x,y:e.clientY-this.currentPan.y},this.container.style.cursor="grabbing")}onMouseMove(e){this.isDragging&&(e.preventDefault(),this.currentPan={x:e.clientX-this.startPan.x,y:e.clientY-this.startPan.y},this.updateTransform())}onMouseUp(){this.isDragging=!1,this.container.style.cursor="grab"}zoom(e){let r=Math.min(Math.max(this.scale+e,this.MIN_SCALE),this.MAX_SCALE),t=this.content.getBoundingClientRect(),o=t.width/2,n=t.height/2,c=r-this.scale;this.currentPan.x-=o*c,this.currentPan.y-=n*c,this.scale=r,this.updateTransform()}updateTransform(){this.content.style.transform=`translate(${this.currentPan.x}px, ${this.currentPan.y}px) scale(${this.scale})`}resetTransform(){this.scale=1;let e=this.content.querySelector("svg");this.currentPan={x:e.getBoundingClientRect().width/2,y:e.getBoundingClientRect().height/2},this.updateTransform()}},C=["--secondary","--tertiary","--gray","--light","--lightgray","--highlight","--dark","--darkgray","--codeFont"],E;document.addEventListener("nav",async()=>{let e=document.querySelector(".center").querySelectorAll("code.mermaid");if(e.length===0)return;E||=await import("https://cdnjs.cloudflare.com/ajax/libs/mermaid/11.4.0/mermaid.esm.min.mjs");let r=E.default,t=new WeakMap;for(let n of e)t.set(n,n.innerText);async function o(){for(let s of e){s.removeAttribute("data-processed");let a=t.get(s);a&&(s.innerHTML=a)}let n=C.reduce((s,a)=>(s[a]=window.getComputedStyle(document.documentElement).getPropertyValue(a),s),{}),c=document.documentElement.getAttribute("saved-theme")==="dark";r.initialize({startOnLoad:!1,securityLevel:"loose",theme:c?"dark":"base",themeVariables:{fontFamily:n["--codeFont"],primaryColor:n["--light"],primaryTextColor:n["--darkgray"],primaryBorderColor:n["--tertiary"],lineColor:n["--darkgray"],secondaryColor:n["--secondary"],tertiaryColor:n["--tertiary"],clusterBkg:n["--light"],edgeLabelBackground:n["--highlight"]}}),await r.run({nodes:e})}await o(),document.addEventListener("themechange",o),window.addCleanup(()=>document.removeEventListener("themechange",o));for(let n=0;n<e.length;n++){let v=function(){let g=l.querySelector("#mermaid-space"),m=l.querySelector(".mermaid-content");if(!m)return;y(m);let w=c.querySelector("svg").cloneNode(!0);m.appendChild(w),l.classList.add("active"),g.style.cursor="grab",u=new h(g,m)},M=function(){l.classList.remove("active"),u?.cleanup(),u=null},c=e[n],s=c.parentElement,a=s.querySelector(".clipboard-button"),d=s.querySelector(".expand-button"),p=window.getComputedStyle(a),L=a.offsetWidth+parseFloat(p.marginLeft||"0")+parseFloat(p.marginRight||"0");d.style.right=`calc(${L}px + 0.3rem)`,s.prepend(d);let l=s.querySelector("#mermaid-container");if(!l)return;let u=null;d.addEventListener("click",v),f(l,M),window.addCleanup(()=>{u?.cleanup(),d.removeEventListener("click",v)})}});
 </script><script src="https://cdn.jsdelivr.net/npm/katex@0.16.11/dist/contrib/copy-tex.min.js" type="application/javascript"></script><script src="../../../../postscript.js" type="module"></script></html>

diff --git a/public/notes/roleplay/characters/Jabari-Adewale-al-Masari/Jabari-Adewale-al-Masari.html b/public/notes/roleplay/characters/Jabari-Adewale-al-Masari/Jabari-Adewale-al-Masari.html
@@ -116,7 +116,7 @@ pre:hover > .expand-button {
   padding: 0 12px;
   font-size: 14px;
 }
[2 lines of base64/hex data omitted]
 <ul>
 <li><strong>Name:</strong> <em>Jabari Adewale al-Masari</em> - <a href="../../../../notes/roleplay/characters/Jabari-Adewale-al-Masari/Name-meaning---Jabari-al-Masari" class="internal alias" data-slug="notes/roleplay/characters/Jabari-Adewale-al-Masari/Name-meaning---Jabari-al-Masari">Meaning of his name</a></li>
 <li><strong>Alma Mater:</strong> Uagadou (Mountains of the Moon - Uganda)</li>

diff --git a/public/notes/roleplay/characters/Jabari-Adewale-al-Masari/Name-meaning---Jabari-al-Masari.html b/public/notes/roleplay/characters/Jabari-Adewale-al-Masari/Name-meaning---Jabari-al-Masari.html
@@ -116,7 +116,7 @@ pre:hover > .expand-button {
   padding: 0 12px;
   font-size: 14px;
 }
[2 lines of base64/hex data omitted]
 <h3 id="jabari">Jabari<a role="anchor" aria-hidden="true" tabindex="-1" data-no-popover="true" href="#jabari" class="internal"><svg width="18" height="18" viewBox="0 0 24 24" fill="none" stroke="currentColor" stroke-width="2" stroke-linecap="round" stroke-linejoin="round"><path d="M10 13a5 5 0 0 0 7.54.54l3-3a5 5 0 0 0-7.07-7.07l-1.72 1.71"></path><path d="M14 11a5 5 0 0 0-7.54-.54l-3 3a5 5 0 0 0 7.07 7.07l1.71-1.71"></path></svg></a></h3>
 <ul>
 <li><strong>Language</strong>: Swahili</li>

diff --git a/public/notes/roleplay/characters/Jabari-Adewale-al-Masari/index.html b/public/notes/roleplay/characters/Jabari-Adewale-al-Masari/index.html
@@ -116,6 +116,6 @@ pre:hover > .expand-button {
   padding: 0 12px;
   font-size: 14px;
 }
[2 lines of base64/hex data omitted]
 </script><script type="module">function f(i,e){if(!i)return;function r(o){o.target===this&&(o.preventDefault(),o.stopPropagation(),e())}function t(o){o.key.startsWith("Esc")&&(o.preventDefault(),e())}i?.addEventListener("click",r),window.addCleanup(()=>i?.removeEventListener("click",r)),document.addEventListener("keydown",t),window.addCleanup(()=>document.removeEventListener("keydown",t))}function y(i){for(;i.firstChild;)i.removeChild(i.firstChild)}var h=class{constructor(e,r){this.container=e;this.content=r;this.setupEventListeners(),this.setupNavigationControls(),this.resetTransform()}isDragging=!1;startPan={x:0,y:0};currentPan={x:0,y:0};scale=1;MIN_SCALE=.5;MAX_SCALE=3;cleanups=[];setupEventListeners(){let e=this.onMouseDown.bind(this),r=this.onMouseMove.bind(this),t=this.onMouseUp.bind(this),o=this.resetTransform.bind(this);this.container.addEventListener("mousedown",e),document.addEventListener("mousemove",r),document.addEventListener("mouseup",t),window.addEventListener("resize",o),this.cleanups.push(()=>this.container.removeEventListener("mousedown",e),()=>document.removeEventListener("mousemove",r),()=>document.removeEventListener("mouseup",t),()=>window.removeEventListener("resize",o))}cleanup(){for(let e of this.cleanups)e()}setupNavigationControls(){let e=document.createElement("div");e.className="mermaid-controls";let r=this.createButton("+",()=>this.zoom(.1)),t=this.createButton("-",()=>this.zoom(-.1)),o=this.createButton("Reset",()=>this.resetTransform());e.appendChild(t),e.appendChild(o),e.appendChild(r),this.container.appendChild(e)}createButton(e,r){let t=document.createElement("button");return t.textContent=e,t.className="mermaid-control-button",t.addEventListener("click",r),window.addCleanup(()=>t.removeEventListener("click",r)),t}onMouseDown(e){e.button===0&&(this.isDragging=!0,this.startPan={x:e.clientX-this.currentPan.x,y:e.clientY-this.currentPan.y},this.container.style.cursor="grabbing")}onMouseMove(e){this.isDragging&&(e.preventDefault(),this.currentPan={x:e.clientX-this.startPan.x,y:e.clientY-this.startPan.y},this.updateTransform())}onMouseUp(){this.isDragging=!1,this.container.style.cursor="grab"}zoom(e){let r=Math.min(Math.max(this.scale+e,this.MIN_SCALE),this.MAX_SCALE),t=this.content.getBoundingClientRect(),o=t.width/2,n=t.height/2,c=r-this.scale;this.currentPan.x-=o*c,this.currentPan.y-=n*c,this.scale=r,this.updateTransform()}updateTransform(){this.content.style.transform=`translate(${this.currentPan.x}px, ${this.currentPan.y}px) scale(${this.scale})`}resetTransform(){this.scale=1;let e=this.content.querySelector("svg");this.currentPan={x:e.getBoundingClientRect().width/2,y:e.getBoundingClientRect().height/2},this.updateTransform()}},C=["--secondary","--tertiary","--gray","--light","--lightgray","--highlight","--dark","--darkgray","--codeFont"],E;document.addEventListener("nav",async()=>{let e=document.querySelector(".center").querySelectorAll("code.mermaid");if(e.length===0)return;E||=await import("https://cdnjs.cloudflare.com/ajax/libs/mermaid/11.4.0/mermaid.esm.min.mjs");let r=E.default,t=new WeakMap;for(let n of e)t.set(n,n.innerText);async function o(){for(let s of e){s.removeAttribute("data-processed");let a=t.get(s);a&&(s.innerHTML=a)}let n=C.reduce((s,a)=>(s[a]=window.getComputedStyle(document.documentElement).getPropertyValue(a),s),{}),c=document.documentElement.getAttribute("saved-theme")==="dark";r.initialize({startOnLoad:!1,securityLevel:"loose",theme:c?"dark":"base",themeVariables:{fontFamily:n["--codeFont"],primaryColor:n["--light"],primaryTextColor:n["--darkgray"],primaryBorderColor:n["--tertiary"],lineColor:n["--darkgray"],secondaryColor:n["--secondary"],tertiaryColor:n["--tertiary"],clusterBkg:n["--light"],edgeLabelBackground:n["--highlight"]}}),await r.run({nodes:e})}await o(),document.addEventListener("themechange",o),window.addCleanup(()=>document.removeEventListener("themechange",o));for(let n=0;n<e.length;n++){let v=function(){let g=l.querySelector("#mermaid-space"),m=l.querySelector(".mermaid-content");if(!m)return;y(m);let w=c.querySelector("svg").cloneNode(!0);m.appendChild(w),l.classList.add("active"),g.style.cursor="grab",u=new h(g,m)},M=function(){l.classList.remove("active"),u?.cleanup(),u=null},c=e[n],s=c.parentElement,a=s.querySelector(".clipboard-button"),d=s.querySelector(".expand-button"),p=window.getComputedStyle(a),L=a.offsetWidth+parseFloat(p.marginLeft||"0")+parseFloat(p.marginRight||"0");d.style.right=`calc(${L}px + 0.3rem)`,s.prepend(d);let l=s.querySelector("#mermaid-container");if(!l)return;let u=null;d.addEventListener("click",v),f(l,M),window.addCleanup(()=>{u?.cleanup(),d.removeEventListener("click",v)})}});
 </script><script src="https://cdn.jsdelivr.net/npm/katex@0.16.11/dist/contrib/copy-tex.min.js" type="application/javascript"></script><script src="../../../../postscript.js" type="module"></script></html>

diff --git a/public/notes/roleplay/characters/Saalim-abu-Razin/Known-Associates/Saalim's-family.html b/public/notes/roleplay/characters/Saalim-abu-Razin/Known-Associates/Saalim's-family.html
@@ -116,7 +116,7 @@ pre:hover > .expand-button {
   padding: 0 12px;
   font-size: 14px;
 }
[2 lines of base64/hex data omitted]
 <h3 id="naji">Naji<a role="anchor" aria-hidden="true" tabindex="-1" data-no-popover="true" href="#naji" class="internal"><svg width="18" height="18" viewBox="0 0 24 24" fill="none" stroke="currentColor" stroke-width="2" stroke-linecap="round" stroke-linejoin="round"><path d="M10 13a5 5 0 0 0 7.54.54l3-3a5 5 0 0 0-7.07-7.07l-1.72 1.71"></path><path d="M14 11a5 5 0 0 0-7.54-.54l-3 3a5 5 0 0 0 7.07 7.07l1.71-1.71"></path></svg></a></h3>
 <p><strong>fullname:</strong> Naji ibn Mohammed abu Razin Al Medjai</p>
 <ul>